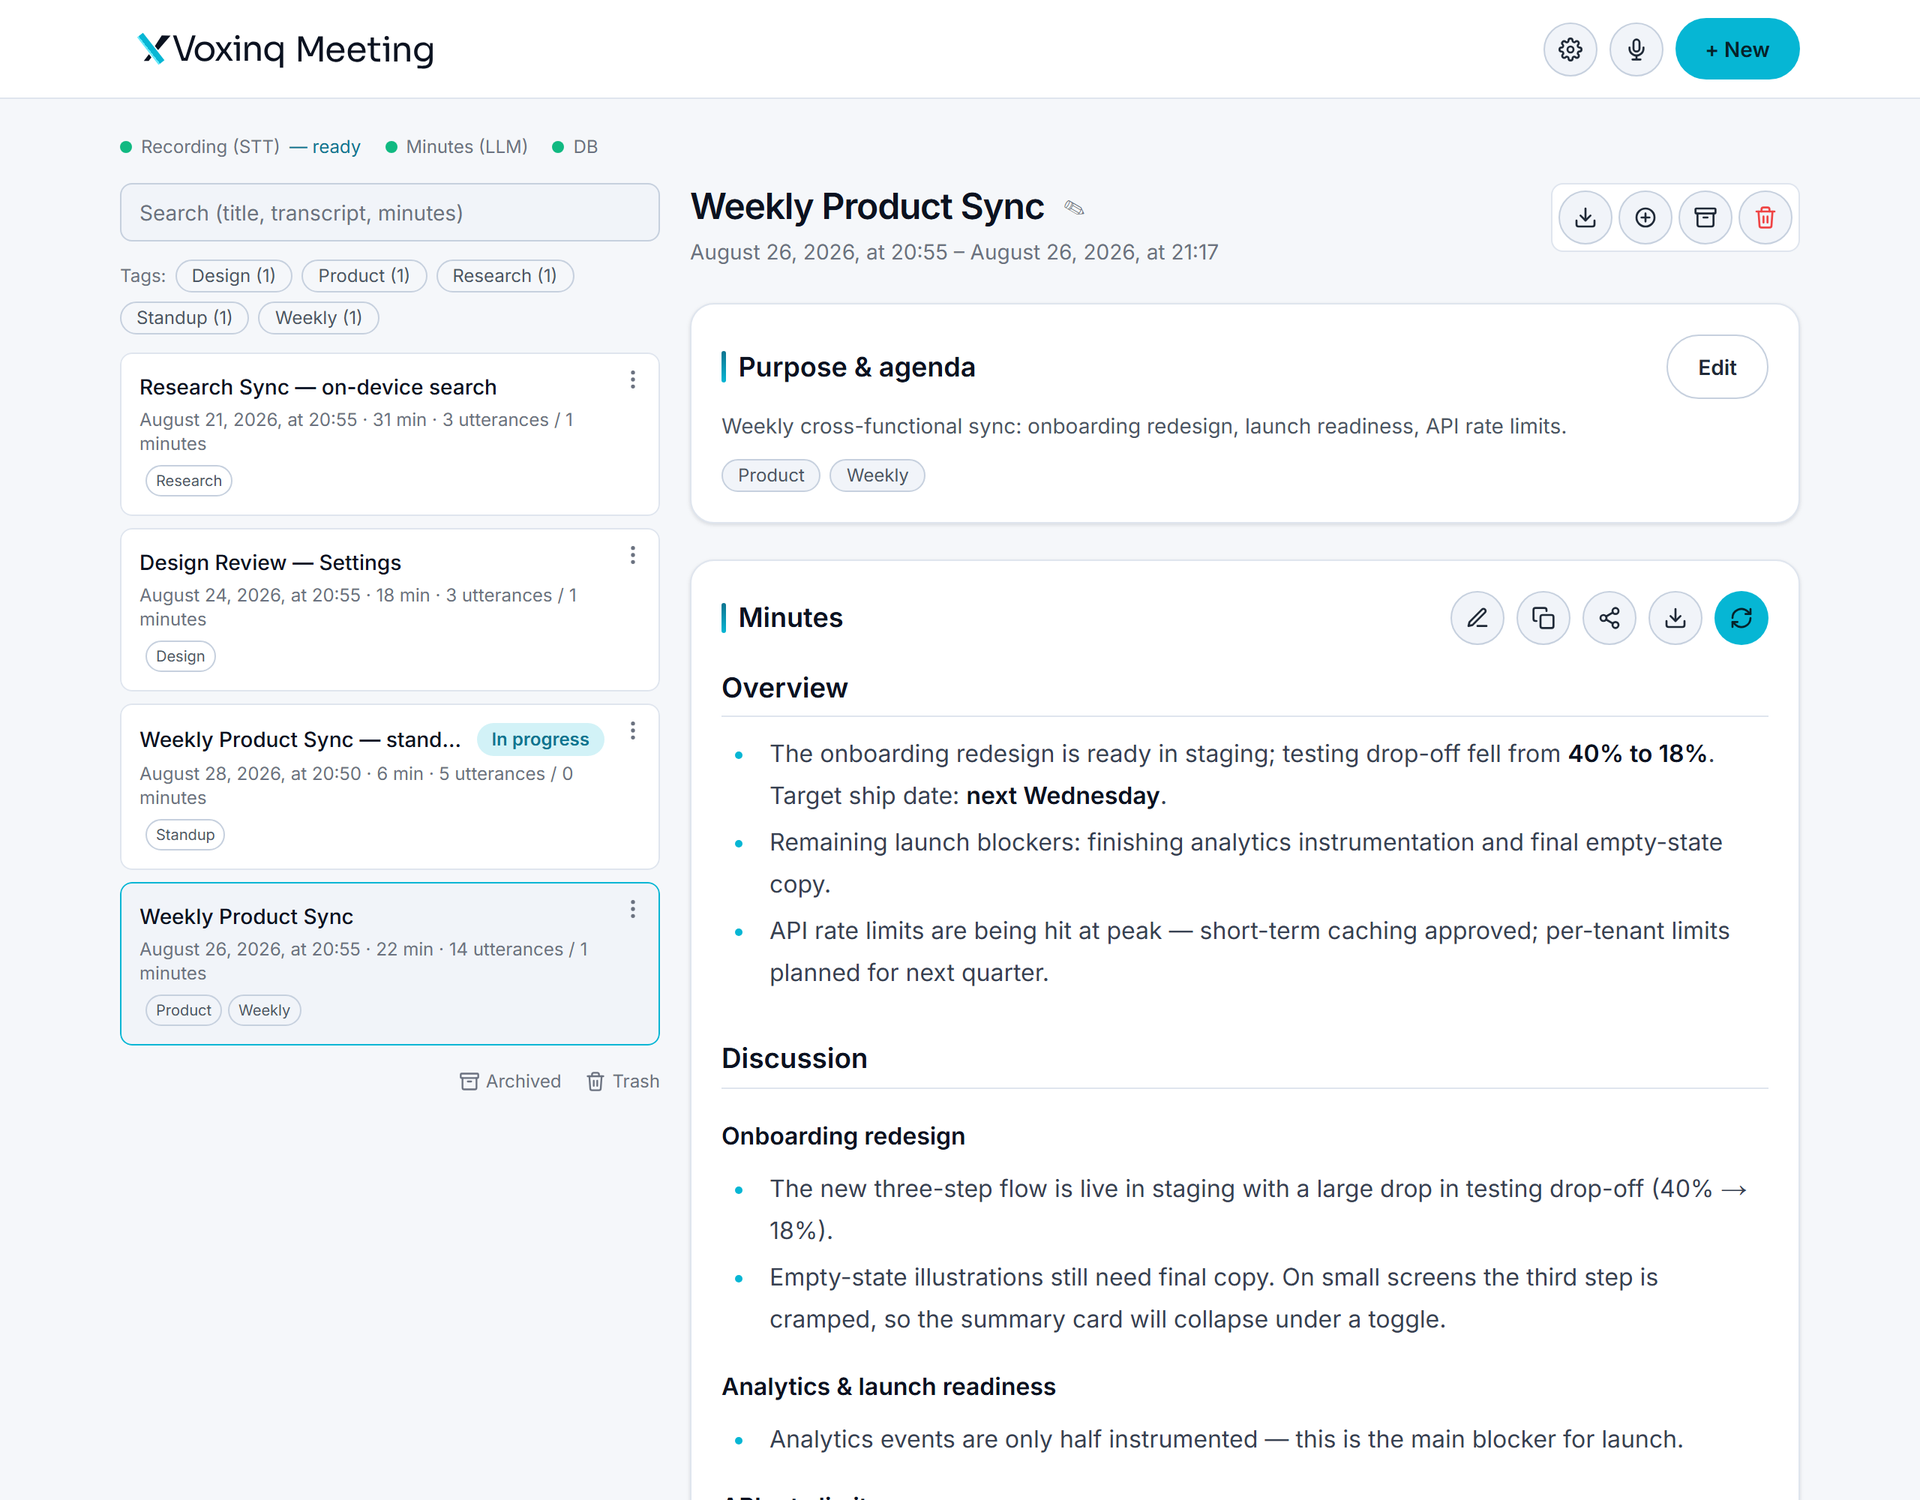
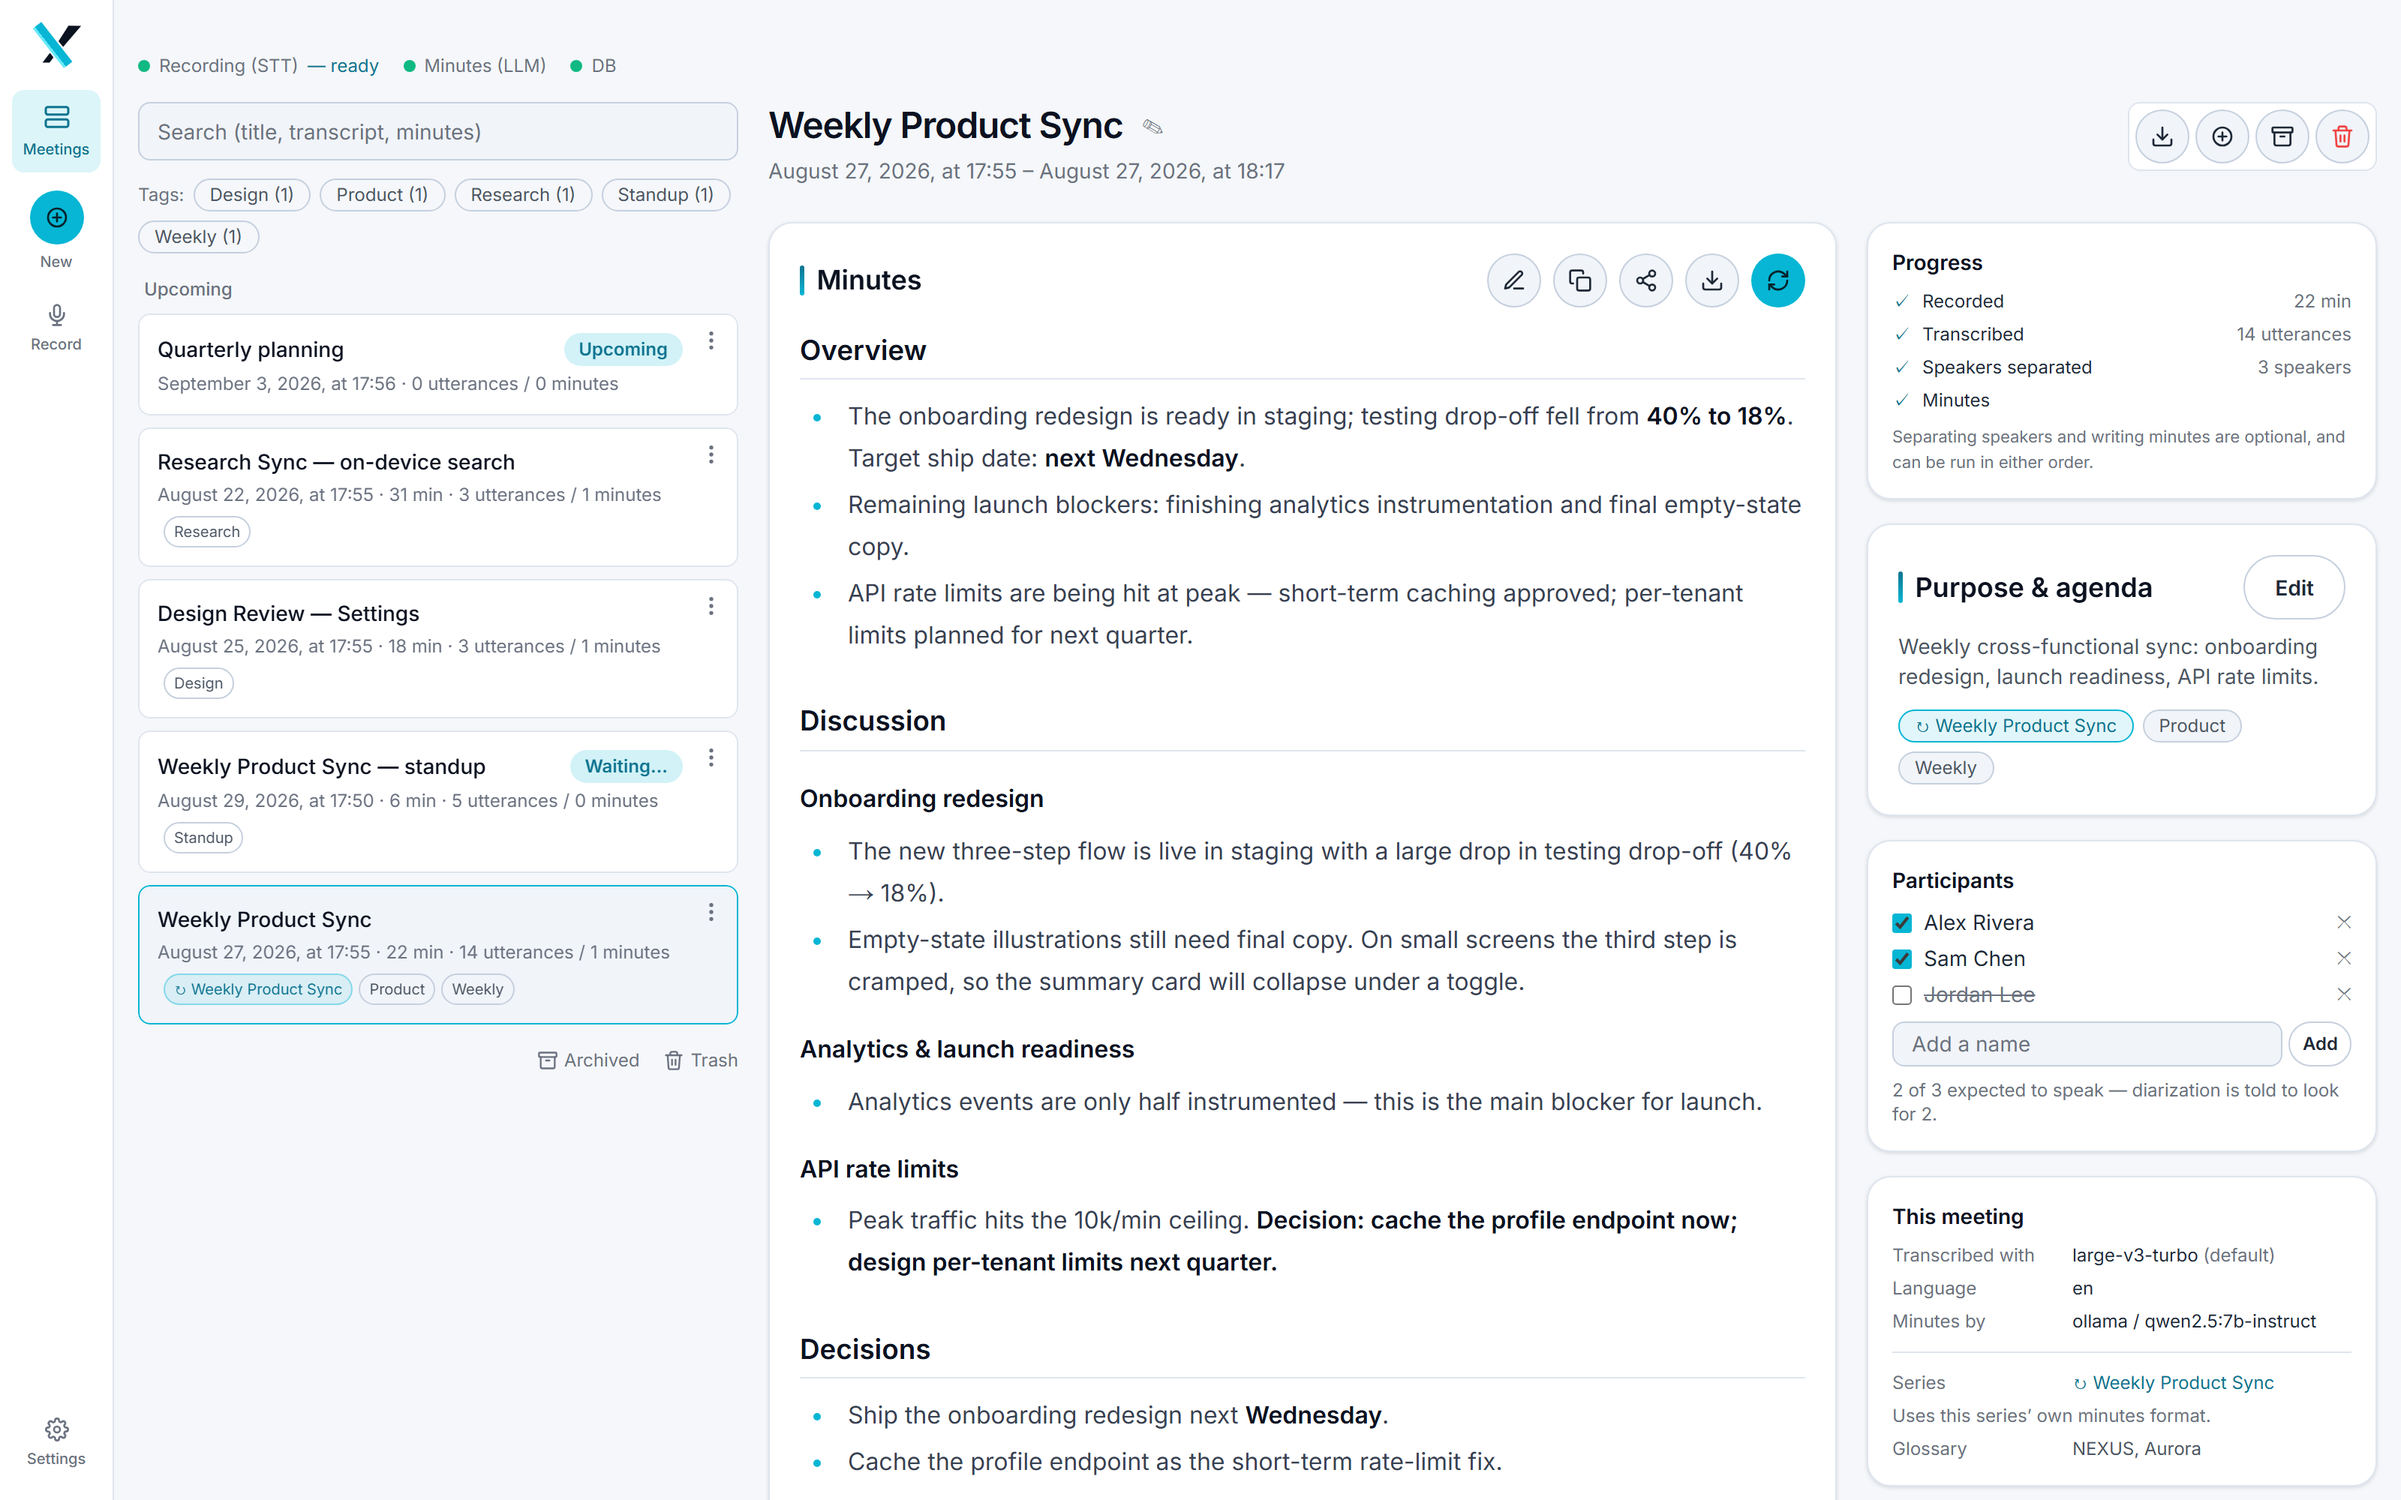
Show where a meeting has got to, and catch the docs up
Every fact in the new Progress card was already on the page and none of
them were together: you could tell a meeting had been transcribed by
scrolling to the transcript, and that speakers had been separated by
noticing the names were not "Speaker 1". The question people actually
have -- is it finished, what is left -- took reading the whole screen.

Separating and summarising are optional and can run in either order, so
they read as "not run" rather than "pending". A tick list that marks a
step somebody never intends to take as incomplete is nagging, not
informing.

Only minutes shows a running state. The STT service reports that it is
diarizing but not which meeting it is diarizing, and this card sits on
one particular meeting -- claiming another meeting's work as this one's
would be worse than saying nothing.

The docs had fallen behind by two features and a layout. Participants
and booked meetings were in docs/usage.md and in neither README -- the
Japanese guide, which is the one its readers actually use, had never
heard of either. The rail, the right-hand column and Progress are
written up now as well.

Screenshots retaken. They still showed the top bar and the narrow
columns, and the capture script now uses a 1600px frame: below 1536 the
right-hand column stacks, so the narrower shot was of a layout the app
only uses on smaller screens.

diff --git a/app/[id]/progress-card.tsx b/app/[id]/progress-card.tsx
@@ -1,0 +1,100 @@
+import { formatDurationMs } from "@/lib/utils";
+
+// Where this meeting has got to.
+//
+// Every one of these facts was already on the page, and none of them were in one place: you
+// could tell a meeting had been transcribed by scrolling to the transcript, and that speakers
+// had been separated by noticing the names were not "Speaker 1". The question people actually
+// have — "is it finished, and what is left" — took reading the whole screen to answer.
+//
+// Separating and summarising are optional and can be run in either order, so they are shown as
+// "not run" rather than "pending". A tick list that marks a step someone never intends to take
+// as incomplete is nagging, not informing.
+//
+// Only minutes shows a running state. The STT service reports that it is diarizing, but not
+// *which* meeting it is diarizing, and this card sits on one particular meeting -- claiming a
+// different meeting's work as this one's would be worse than saying nothing.
+
+type Step = {
+  label: string;
+  state: "done" | "running" | "not-run";
+  detail?: string;
+};
+
+function Mark({ state }: { state: Step["state"] }) {
+  if (state === "done") return <span className="text-[var(--accent-sub)]">✓</span>;
+  if (state === "running")
+    return (
+      <span className="inline-block size-2 animate-pulse rounded-full bg-[var(--accent)]" aria-hidden />
+    );
+  return <span className="text-[var(--text-muted)]">○</span>;
+}
+
+export function ProgressCard({
+  ended,
+  recordedMs,
+  transcriptCount,
+  separated,
+  speakerCount,
+  summaryCount,
+  summaryStatus,
+}: {
+  ended: boolean;
+  recordedMs: number | null;
+  transcriptCount: number;
+  /** Whether diarization has been run: it leaves per-cluster embeddings behind, and that is
+   *  the only signal that does not also fire for a recording whose speakers came from the
+   *  audio source (mic vs PC) rather than from separating voices. */
+  separated: boolean;
+  /** Distinct speakers on the transcript. */
+  speakerCount: number;
+  summaryCount: number;
+  summaryStatus: string | null;
+}) {
+  const steps: Step[] = [
+    {
+      label: "Recorded",
+      state: ended || transcriptCount > 0 ? "done" : "not-run",
+      detail: recordedMs ? (formatDurationMs(recordedMs) ?? undefined) : undefined,
+    },
+    {
+      label: "Transcribed",
+      state: transcriptCount > 0 ? "done" : "not-run",
+      detail: transcriptCount > 0 ? `${transcriptCount} utterances` : undefined,
+    },
+    {
+      label: "Speakers separated",
+      state: separated ? "done" : "not-run",
+      detail: separated && speakerCount > 0 ? `${speakerCount} speakers` : undefined,
+    },
+    {
+      label: summaryStatus === "processing" ? "Writing minutes…" : "Minutes",
+      state:
+        summaryStatus === "processing" ? "running" : summaryCount > 0 ? "done" : "not-run",
+      detail:
+        summaryStatus !== "processing" && summaryCount > 1 ? `${summaryCount} versions` : undefined,
+    },
+  ];
+
+  return (
+    <section className="card p-4">
+      <h2 className="mb-2 text-sm font-semibold text-[var(--text-strong)]">Progress</h2>
+      <ul className="flex flex-col gap-1.5 text-xs">
+        {steps.map((s) => (
+          <li key={s.label} className="flex items-baseline gap-2">
+            <span className="w-3 shrink-0 text-center">
+              <Mark state={s.state} />
+            </span>
+            <span className={s.state === "not-run" ? "text-[var(--text-muted)]" : ""}>{s.label}</span>
+            {s.detail ? (
+              <span className="ml-auto shrink-0 text-[var(--text-muted)]">{s.detail}</span>
+            ) : null}
+          </li>
+        ))}
+      </ul>
+      <p className="mt-2 text-[11px] text-[var(--text-muted)]">
+        Separating speakers and writing minutes are optional, and can be run in either order.
+      </p>
+    </section>
+  );
+}

diff --git a/app/[id]/page.tsx b/app/[id]/page.tsx
@@ -14,6 +14,7 @@ import { DownloadMeetingButton } from "./download-meeting-button";
 import { ResumeRecordingButton } from "./resume-recording-button";
 import { MeetingFactsCard } from "./meeting-facts-card";
 import { ParticipantsCard } from "./participants-card";
+import { ProgressCard } from "./progress-card";
 import { MeetingMeta } from "./meeting-meta";
 import { MeetingTitle } from "./meeting-title";
 import { SummarySection } from "./summary-section";
@@ -191,6 +192,15 @@ export default async function MeetingDetailPage({
           A rail on wide screens; above the minutes on anything narrower, because on a phone
           this is context you read first and then scroll past. */}
       <aside className="order-first space-y-4 2xl:order-none">
+        <ProgressCard
+          ended={meeting.endedAt !== null}
+          recordedMs={meeting.recordedMs}
+          transcriptCount={meeting.transcripts.length}
+          separated={meeting.diarizationEmbeddings !== null}
+          speakerCount={new Set(meeting.transcripts.map((t) => t.speakerType)).size}
+          summaryCount={meeting.summaries.length}
+          summaryStatus={meeting.summaryStatus}
+        />
         <MeetingMeta
           id={meeting.id}
           description={meeting.description}

diff --git a/README.ja.md b/README.ja.md
@@ -507,6 +507,35 @@ sudo systemctl enable --now voxinq-stt
 > **回数を重ねるほど照合が安定します**（1回の悪い録音で台無しになりません）。
 > 2件以上登録された人には設定画面で `×N` と表示されます。やり直したい場合は削除してから再登録してください。
 
+### 参加者を登録する（話者分離の精度が上がります）
+
+会議画面の右側に、その会議にいた人を登録できます。名前は自由入力で、声紋を登録済みの人は
+候補として出ますが、未登録の人も書けます。
+
+**チェックは「参加したか」ではなく「発言する見込みがあるか」です。** ここが効きます。
+
+- **チェックした人数が、話者分離に渡す話者数になります。** 話者分離が一番外すのは人数の推定
+  なので、これが分かっているだけで精度が変わります
+- **チェックした名前が、声紋による自動命名の候補になります。** 登録しないと全プロフィールが
+  候補になるため、**その場にいなかった人の名前が付く**可能性が残ります
+
+会議には出たが一言も話さなかった人は、**名簿に残したままチェックだけ外して**ください。名簿から
+消す必要はありません。
+
+チェックを間違えても Diarize は何度でも実行できます。ただし**実際より少なく伝えると 2 人が
+1 人に統合される**ので、迷ったらチェックを付けたままにしてください。
+
+### 会議を予定として先に入れておく
+
+「New meeting」画面の **When** に日時を入れると、録音せずに会議だけを作れます。一覧の上部に
+**Upcoming** として並び、当日は開いて「Recording screen」を押すだけです。
+
+タイトル・議題・シリーズ・参加者・使用モデルは、**全員が待っている開始直前ではなく、落ち着いた
+ときに**決められます。空欄のままなら従来どおり、作成してそのまま録音が始まります。
+
+表示される日時は予定した日時です。録音が終わると、実際に録音が始まった時刻に補正されます
+（火曜に予定して水曜に録った会議が「火 14:00 – 水 15:20」と表示されないようにするためです）。
+
 ### 定例会議をまとめる（シリーズ機能）
 
 毎週の定例など、継続的な会議は**シリーズ**にまとめられます。

diff --git a/README.md b/README.md
@@ -27,6 +27,8 @@
 - 💬 **Ask your minutes** — “what were the TODOs from last time?” answered from a series' minutes, grounded in them and told to say when something is not recorded.
 - 🌏 **Live Japanese translation** (optional) — a Japanese translation under each non-Japanese utterance, produced on the CPU so it never competes with transcription for the GPU.
 - 🗣 **Speaker separation with voice profiles** — assign speakers after the meeting ([pyannote](https://github.com/pyannote/pyannote-audio) on CUDA, [sherpa-onnx](https://github.com/k2-fsa/sherpa-onnx) everywhere else — no Hugging Face token needed on that path), and enrol a voice once so it is **named automatically** in every future meeting.
+- 👥 **Participants, which the diarizer uses** — list who was there and tick who is expected to speak; the count becomes the number of voices separation looks for, and the names narrow which enrolled voice profiles can be matched. Someone who attended in silence stays on the list and off the count.
+- 🗓 **Book a meeting before it happens** — put the title, agenda, series and participants in ahead of time; it waits under **Upcoming** until you press record.
 - 🔁 **Recurring series** — link meetings into a series; the previous minutes are fed to the LLM as context, and each series can carry its own minutes format and glossary.
 - 🔍 **Search, tags, archive & trash** — find meetings fast; soft-delete with 30-day restore.
 - 🌐 **Phone access & read-only sharing** — install as a PWA and reach it over [Tailscale](https://tailscale.com) with optional password auth. One click in **Settings → Remote access** publishes a password-protected, **read-only** public link (view & download only) for people outside your tailnet — recording, editing and the transcription service stay private.

diff --git a/docs/screenshots/README.md b/docs/screenshots/README.md
@@ -5,9 +5,9 @@ fictional demo meetings, so they can be retaken whenever the interface changes.
 
 | Filename | What it shows | Retaken by |
 | --- | --- | --- |
-| `dashboard.png` | Home / meeting list (tags, status chips, health dots). | `shoot-screenshots.mjs` |
+| `dashboard.png` | Home: the rail, the meeting list with Upcoming, tags and status chips. | `shoot-screenshots.mjs` |
 | `recording.png` | Recording screen: model state, live transcript, end actions. | `shoot-screenshots.mjs` |
-| `minutes.png` | Meeting detail: toolbar, purpose, generated minutes. | `shoot-screenshots.mjs` |
+| `minutes.png` | Meeting detail: minutes in the middle, and the column beside them — progress, agenda, participants, what it was recorded with. | `shoot-screenshots.mjs` |
 | `settings.png` | Settings → Transcription (model, language, glossary, mic mode). | `shoot-screenshots.mjs` |
 | `workflow.png` | README hero: the six-step pipeline (record → transcribe → speakers → minutes → ask → series) over a table of what each kind of hardware does. | by hand |
 | `demo.gif` | Usage section: slideshow of home → new meeting → recording → minutes. | `shoot-demo-gif.mjs` |
@@ -46,7 +46,7 @@ docker rm -f voxinq-shots-db     # when you are done
 ```
 
 The script fixes the things that are easy to get wrong by hand: light theme (it is stored per
-device in `localStorage`, not in settings), a 2× device pixel ratio so the images stay sharp,
+device in `localStorage`, not in settings), a 1600px frame so the three-column layout is the one photographed (below 1536 the right-hand column stacks), a 2× device pixel ratio so the images stay sharp,
 a frame fitted to each page instead of a band of empty background, and one shared height for
 `recording.png` and `minutes.png` because the README puts them side by side.
 

diff --git a/docs/usage.md b/docs/usage.md
@@ -1,5 +1,30 @@
 # Usage & recipes
 
+## Finding your way round
+
+Navigation is a rail down the left edge on a desktop-sized window, and the bar along the top on
+anything narrower. **Meetings** is the list, **New meeting** and **Record NOW** both start one —
+the second skips the setup screen — and **Help** opens this documentation.
+
+A meeting's own page puts the minutes and the transcript in the middle, and everything *about*
+the meeting in a column to its right: how far it has got, the agenda and tags, who was there,
+and what it was recorded and written with. On a window narrower than about 1536px that column
+moves above the content rather than beside it.
+
+**Progress** answers the question that otherwise takes reading the whole screen — is this
+finished, and what is left:
+
+```
+✓ Recorded              22 min
+✓ Transcribed           14 utterances
+○ Speakers separated
+✓ Minutes
+```
+
+A circle is "not run", not "failed". Separating speakers and writing minutes are both optional
+and can be done in either order, so a meeting you never intended to diarize is not being nagged
+at.
+
 ## Booking a meeting before it happens
 
 **New meeting → When** puts a meeting in the diary instead of recording it now. It appears
